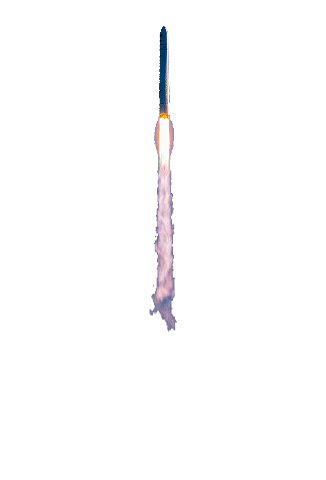
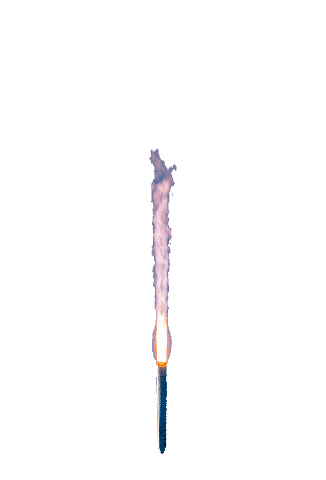
tir ok

Changed region(s): [[0.4601, 0.0312, 0.5521, 0.9375]]

diff --git a/src/View/ViewGame.java b/src/View/ViewGame.java
@@ -144,7 +144,6 @@ public class ViewGame {
         missil1 .setPreserveRatio(true);
     }
 
-
     private void initBackground() {
             videoBackground = new MediaPlayer(new Media(this.getClass().getResource(Path.videobackground4).toExternalForm()));
             videoBackground.setAutoPlay(true);
@@ -160,8 +159,6 @@ public class ViewGame {
             height.bind(Bindings.selectDouble(viewer.sceneProperty(), "height"));
             viewer.setPreserveRatio(false);
         }
-
-
 
     void setVueCompleteMenu() {
         root.getChildren().clear();
@@ -194,9 +191,6 @@ root.getChildren().add(missil1);
         animTextMenuArrivee.play();
     }
 
-
-
-
     void setEvents(ControllerJeux cj) {
 
         root.getScene().setOnKeyPressed(cj);
@@ -213,10 +207,7 @@ root.getChildren().add(missil1);
 
     }
 
-
-
     public void j1goRight() {
-
 
         if (vaissJ1.getX()<= 500) {
 
@@ -242,8 +233,6 @@ root.getChildren().add(missil1);
             vaissJ1Face.setX(newPositionFace);}
     }
 
-
-
     public void j2goRight() {
 
 
@@ -257,7 +246,6 @@ root.getChildren().add(missil1);
 
             if(vaissJ2.getX() < 700){
                 vaissJ2.setImage(vaissJ2droite3);
-
             }else if (vaissJ2.getX() < 850){
                 vaissJ2.setImage(vaissJ2droite2);
             }else {
@@ -271,7 +259,7 @@ root.getChildren().add(missil1);
             final KeyFrame goRightEnd = new KeyFrame(Duration.seconds(0.5), new KeyValue(vaissJ2.xProperty(), 1250));
 
             final KeyFrame goRightStartFace = new KeyFrame(Duration.ZERO, new KeyValue(vaissJ2Face.xProperty(), vaissJ2Face.getX()));
-            final KeyFrame goRightEndFace = new KeyFrame(Duration.seconds(0.5), new KeyValue(vaissJ2Face.xProperty(), 680));
+            final KeyFrame goRightEndFace = new KeyFrame(Duration.seconds(0.5), new KeyValue(vaissJ2Face.xProperty(), -30));
 
          if (vaissJ2.getX()>= 1200){
                 vaissJ2.setImage(vaissJ2normal);
@@ -332,7 +320,7 @@ root.getChildren().add(missil1);
 
 
             final KeyFrame goLeftStartFace = new KeyFrame(Duration.ZERO, new KeyValue(vaissJ2Face.xProperty(), vaissJ2Face.getX()));
-            final KeyFrame goLeftEndFace = new KeyFrame(Duration.seconds(0.5), new KeyValue(vaissJ2Face.xProperty(), -30));
+            final KeyFrame goLeftEndFace = new KeyFrame(Duration.seconds(0.5), new KeyValue(vaissJ2Face.xProperty(), 650));
 
             timelineGoLeft = new Timeline(goLeftStart, goLeftStartFace, goLeftEnd, goLeftEndFace);
             timelineGoLeft.setCycleCount(1);
@@ -343,6 +331,65 @@ root.getChildren().add(missil1);
     public void retourNormalBack() {
         Image vaissJ2normal = new Image(Path.vaissJ2Back);
         vaissJ2.setImage(vaissJ2normal);
+    }
+
+    public void tir() {
+
+        ImageView tir = new ImageView(Path.missil1);
+        tir.setX(vaissJ2.getX()+100);
+        tir.setY(700);
+        tir.setFitWidth(100);
+        tir.setPreserveRatio(true);
+        root.getChildren().remove(vaissJ2);
+        root.getChildren().add(tir);
+        root.getChildren().add(vaissJ2);
+
+        final KeyFrame tirStartY = new KeyFrame(Duration.ZERO, new KeyValue(tir.yProperty(), 700));
+        // final KeyFrame changeVaisse = new KeyFrame(Duration.seconds(0.25), new KeyValue(vaissJ2.imageProperty(), vaissJ2droite2));
+        final KeyFrame tirEndY = new KeyFrame(Duration.seconds(2), new KeyValue(tir.yProperty(), 250));
+
+        final KeyFrame tirStartXajust = new KeyFrame(Duration.ZERO, new KeyValue(tir.xProperty(), vaissJ2.getX()+100));
+        final KeyFrame tirEndXajust = new KeyFrame(Duration.seconds(2), new KeyValue(tir.xProperty(), vaissJ2.getX()+120));
+
+        final KeyFrame tirStartWidth = new KeyFrame(Duration.ZERO, new KeyValue(tir.fitWidthProperty(), 100));
+        final KeyFrame tirEndWidth = new KeyFrame(Duration.seconds(2), new KeyValue(tir.fitWidthProperty(), 1));
+
+        final  Timeline timelineTir = new Timeline(tirStartY, tirStartWidth, tirStartXajust, tirEndY, tirEndWidth, tirEndXajust);
+
+        timelineTir.play();
+
+        if(tir.getY() <=250){
+
+            root.getChildren().remove(tir);
+
+        }
+
+        ImageView tirF = new ImageView(Path.missil1F);
+        tirF.setX(vaissJ2Face.getX()+30);
+        tirF.setY(700);
+        tirF.setFitWidth(200);
+        tirF.setPreserveRatio(true);
+        tirF.setRotate(-2);
+        root.getChildren().remove(vaissJ2);
+        root.getChildren().add(tirF);
+        root.getChildren().add(vaissJ2);
+
+        final KeyFrame tirStartYF = new KeyFrame(Duration.ZERO, new KeyValue(tirF.yProperty(), 320));
+        // final KeyFrame changeVaisse = new KeyFrame(Duration.seconds(0.25), new KeyValue(vaissJ2.imageProperty(), vaissJ2droite2));
+        final KeyFrame tirEndYF = new KeyFrame(Duration.seconds(2), new KeyValue(tirF.yProperty(), 900));
+
+        final KeyFrame tirStartXajustF = new KeyFrame(Duration.ZERO, new KeyValue(tirF.xProperty(), vaissJ2Face.getX()+30));
+        final KeyFrame tirEndXajustF = new KeyFrame(Duration.seconds(2), new KeyValue(tirF.xProperty(), vaissJ2Face.getX()-30));
+
+        final KeyFrame tirStartWidthF = new KeyFrame(Duration.ZERO, new KeyValue(tirF.fitWidthProperty(), 10));
+        final KeyFrame tirEndWidthF = new KeyFrame(Duration.seconds(2), new KeyValue(tirF.fitWidthProperty(), 140));
+
+        final  Timeline timelineTirF = new Timeline(tirStartYF, tirStartWidthF, tirStartXajustF, tirEndYF, tirEndWidthF, tirEndXajustF);
+
+        timelineTirF.play();
+
+
+
     }
 }
 

diff --git a/src/Controller/ControllerJeux.java b/src/Controller/ControllerJeux.java
@@ -62,7 +62,14 @@ public class ControllerJeux implements EventHandler<KeyEvent> {
               //  }
             }
 
-            if (keyEvent.getCode() == KeyCode.D) {
+
+            if (keyEvent.getCode() == KeyCode.O) {
+                launcher.getGame().tir();
+                System.out.println("hello tir");
+            }
+
+
+                if (keyEvent.getCode() == KeyCode.D) {
                 launcher.getGame().j1goRight();
             }
 

diff --git a/src/Tools/Path.java b/src/Tools/Path.java
@@ -78,4 +78,5 @@ public class Path {
 
 
     public static String missil1= "Asset//Images//missil1.gif";
+    public static String missil1F = "Asset//Images//misil2front.gif";
 }
